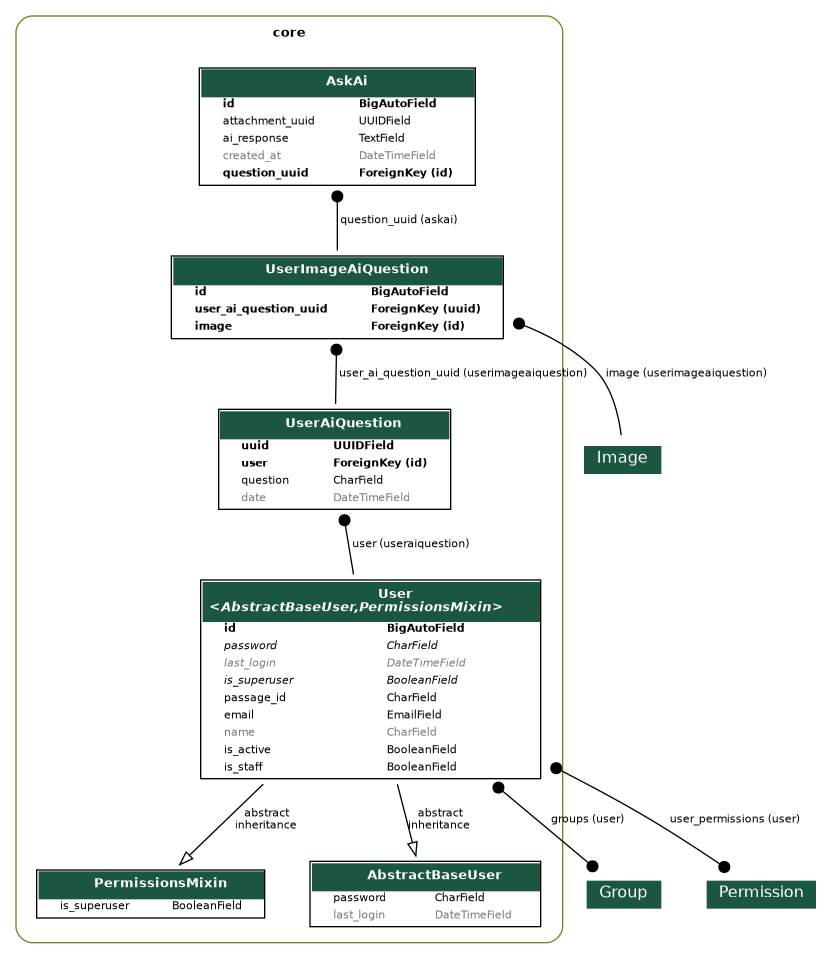
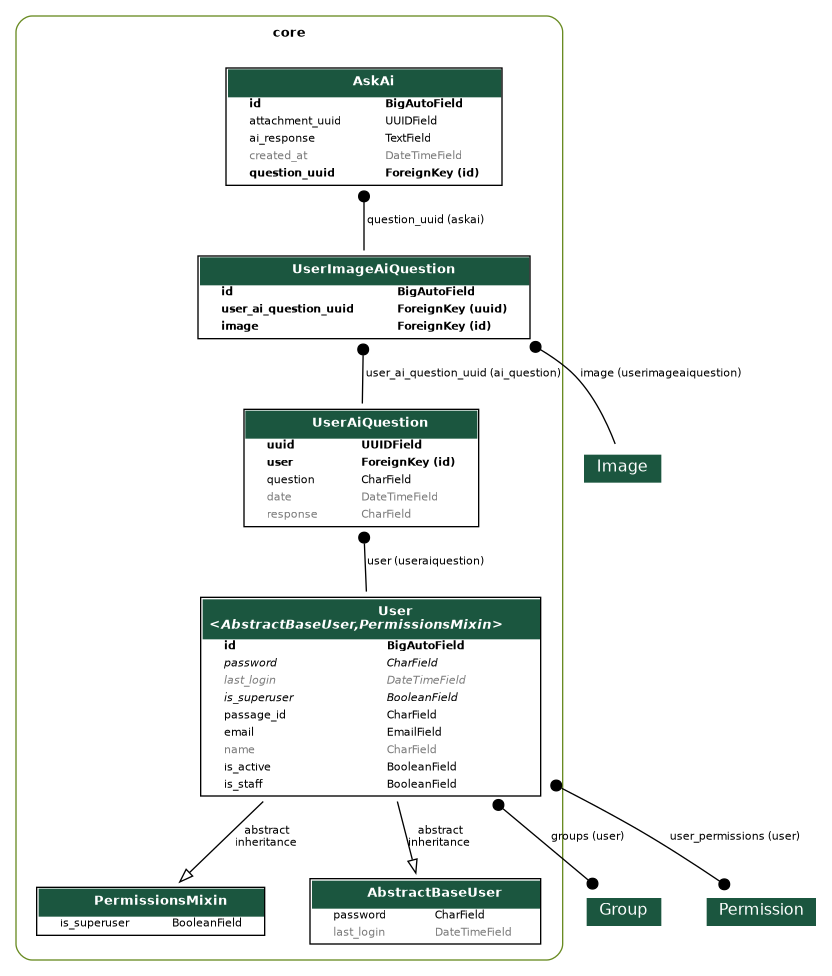
CHORE: Create new serializer to my images

Changed region(s): [[0.0312, 0.0605, 0.9688, 0.9979], [0.7188, 0.9072, 0.7812, 0.9374]]

diff --git a/core/serializers/ai.py b/core/serializers/ai.py
@@ -2,23 +2,31 @@ from rest_framework.serializers import ModelSerializer, ImageField, SlugRelatedF
 from core.models import UserAiQuestion, UserImageAiQuestion, AskAi
 from uploader.models import Image
 
-class UserAiQuestionSerializer(ModelSerializer):
-    image = ImageField(write_only=True, required=True)
-    class Meta:
-        model = UserAiQuestion
-        fields = ["uuid", "question", "image", "user"]
-        read_only_fields = ["uuid"]        
-
 class UserImageAiQuestionSerializer(ModelSerializer):
     image = SlugRelatedField(
         slug_field="attachment_key",
         queryset=Image.objects.all()
     )
-
     class Meta:
         model = UserImageAiQuestion
         fields = ["user_ai_question_uuid", "image"]
+class UserAiQuestionSerializer(ModelSerializer):
+    image = ImageField(write_only=True, required=True)
+    images = UserImageAiQuestionSerializer(many=True, read_only=True)
+    class Meta:
+        model = UserAiQuestion
+        fields = ["uuid", "question", "image", "user", "response", "images"]
+        read_only_fields = ["uuid"]   
         
+    def create(self, validated_data):
+        images_data = validated_data.pop("images", [])
+        question = UserAiQuestion.objects.create(**validated_data)
+        for img in images_data:
+            UserImageAiQuestion.objects.create(
+                **img
+            )
+        return question
+         
 class AskAiSerializer(ModelSerializer):
     class Meta:
         model = AskAi

diff --git a/core/models/ai.py b/core/models/ai.py
@@ -1,3 +1,4 @@
+from pyexpat import model
 from django.db import models
 from core.models import User
 import uuid
@@ -10,12 +11,13 @@ class UserAiQuestion(models.Model):
     user = models.ForeignKey(User, on_delete=models.PROTECT)
     question = models.CharField(max_length=255)
     date= models.DateTimeField(auto_now_add=True, editable=False)
+    response = models.CharField(max_length=255, null=True, blank=True)
     
     def __str__(self):
         return self.question
     
 class UserImageAiQuestion(models.Model):
-    user_ai_question_uuid = models.ForeignKey(UserAiQuestion, on_delete=models.PROTECT)
+    user_ai_question_uuid = models.ForeignKey(UserAiQuestion, on_delete=models.PROTECT, related_name="ai_question")
     image = models.ForeignKey(Image, on_delete=models.PROTECT)
     
 class AskAi(models.Model):

diff --git a/core/migrations/0008_alter_userimageaiquestion_user_ai_question_uuid.py b/core/migrations/0008_alter_userimageaiquestion_user_ai_question_uuid.py
@@ -1,0 +1,19 @@
+# Generated by Django 5.1.7 on 2026-02-16 12:58
+
+import django.db.models.deletion
+from django.db import migrations, models
+
+
+class Migration(migrations.Migration):
+
+    dependencies = [
+        ('core', '0007_useraiquestion_response'),
+    ]
+
+    operations = [
+        migrations.AlterField(
+            model_name='userimageaiquestion',
+            name='user_ai_question_uuid',
+            field=models.ForeignKey(on_delete=django.db.models.deletion.PROTECT, related_name='ai_question', to='core.useraiquestion'),
+        ),
+    ]

diff --git a/core/views/ai.py b/core/views/ai.py
@@ -51,7 +51,7 @@ class UserAiQuestionViewSet(ModelViewSet):
             try:
                 image_serializer = UserImageAiQuestionSerializer(data={
                     "image": attachment_key,
-                    "user_ai_question_uuid": question.uuid
+                    "user_ai_question_uuid": question.uuid  
                 })
                 image_serializer.is_valid(raise_exception=True)
                 image_serializer.save()

diff --git a/core/migrations/0007_useraiquestion_response.py b/core/migrations/0007_useraiquestion_response.py
@@ -1,0 +1,18 @@
+# Generated by Django 5.1.7 on 2026-02-16 12:55
+
+from django.db import migrations, models
+
+
+class Migration(migrations.Migration):
+
+    dependencies = [
+        ('core', '0006_askai'),
+    ]
+
+    operations = [
+        migrations.AddField(
+            model_name='useraiquestion',
+            name='response',
+            field=models.CharField(blank=True, max_length=255, null=True),
+        ),
+    ]
